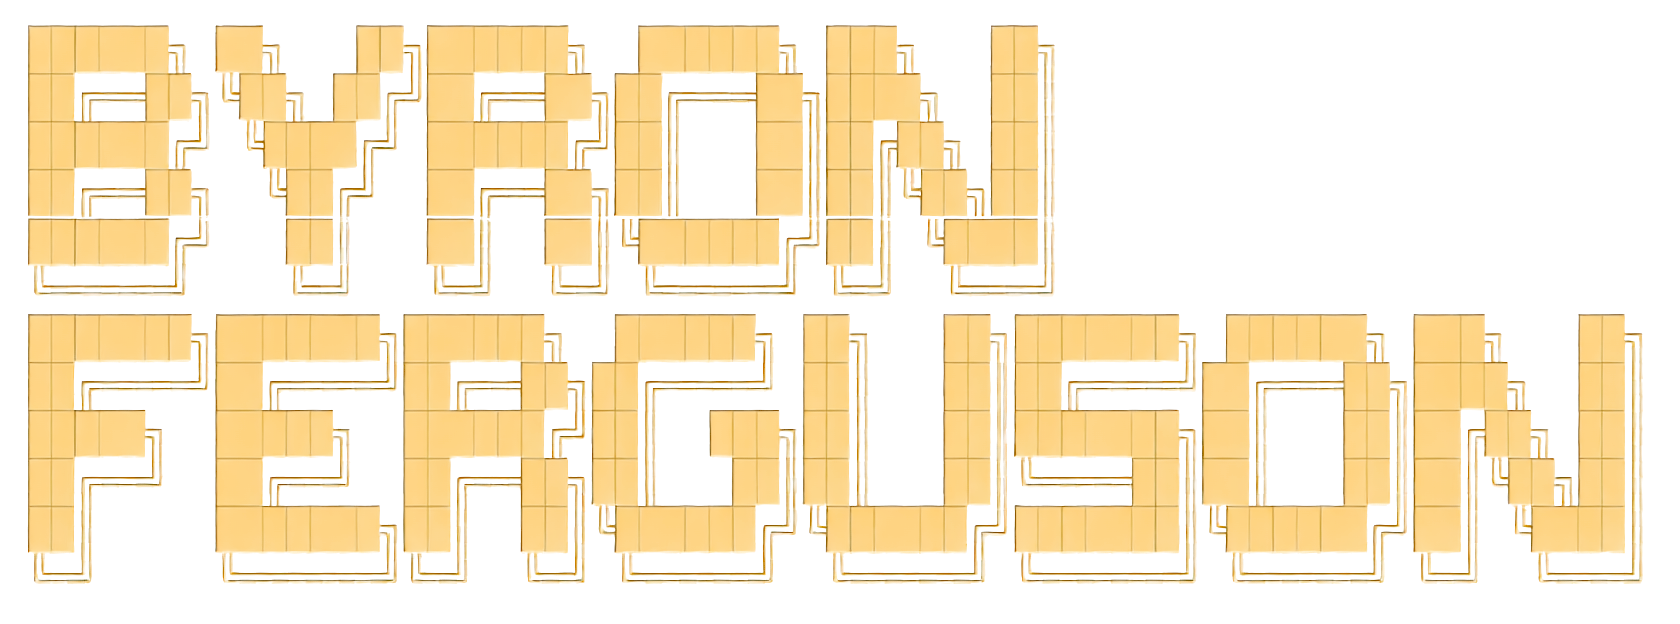
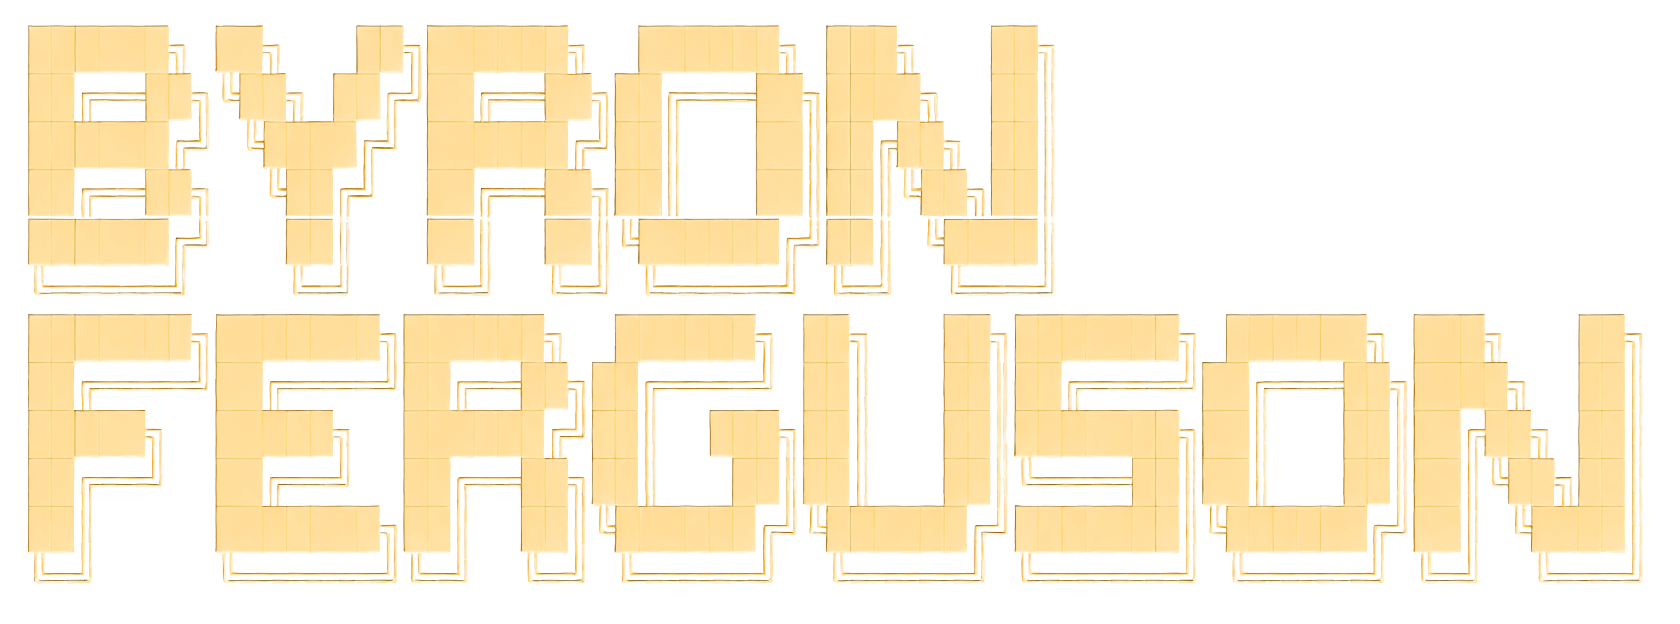
remap ascii_art colors to match site amber #cc9933
HSV-based per-pixel color remap from source avg (168,113,12) to
target (204,153,51). Result avg: (203,152,50) — exact match.
Drop hue-rotate/saturate filters, keep small brightness bump.

diff --git a/index.html b/index.html
@@ -120,7 +120,7 @@
     .section-comment { font-family: var(--mono); font-size: 0.78rem; color: var(--green); opacity: 0.8; }
 
     /* ── ~/home ── */
-    .ascii-art { display: block; width: 100%; max-width: 100%; height: auto; margin-bottom: 0.75rem; filter: brightness(1.35) hue-rotate(6deg); }
+    .ascii-art { display: block; width: 100%; max-width: 100%; height: auto; margin-bottom: 0.75rem; filter: brightness(1.1); }
     .hero-role { font-family: var(--mono); font-size: 0.85rem; color: var(--green); margin-bottom: 1.5rem; opacity: 0.9; }
     .hero-mantra { font-family: var(--mono); font-size: 0.82rem; color: var(--amber); opacity: 0.85; font-style: italic; margin-bottom: 1.25rem; max-width: 58ch; line-height: 1.6; }
     .hero-lede { font-size: 1rem; color: var(--muted); max-width: 54ch; margin-bottom: 1.5rem; line-height: 1.72; }
